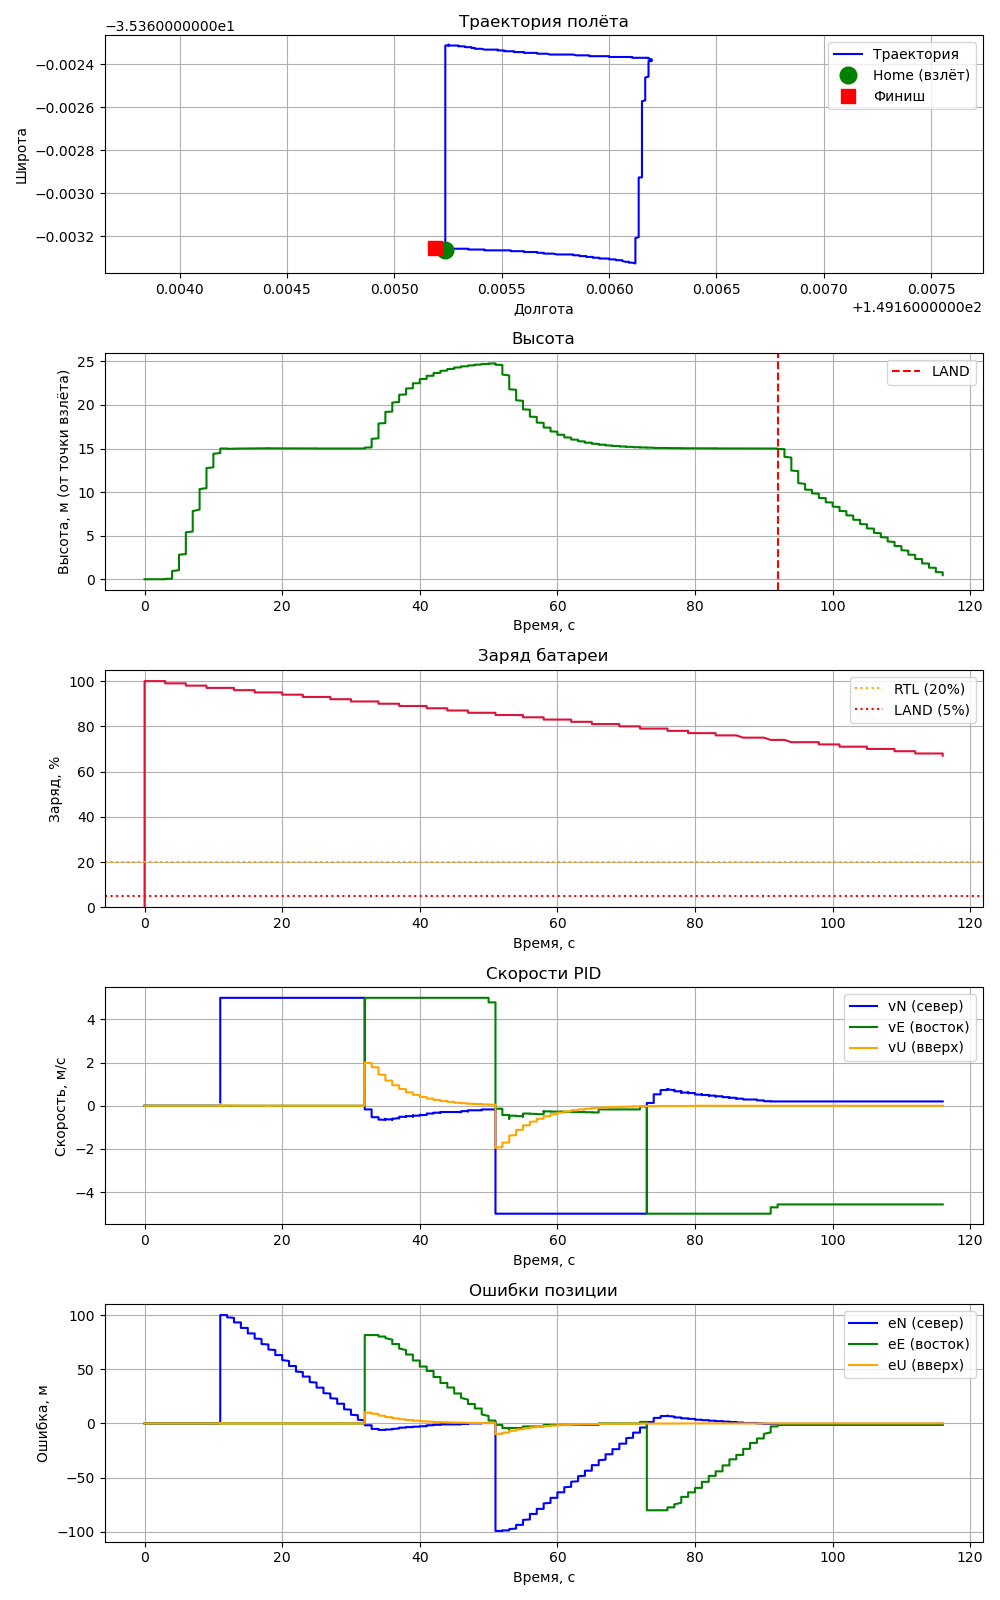
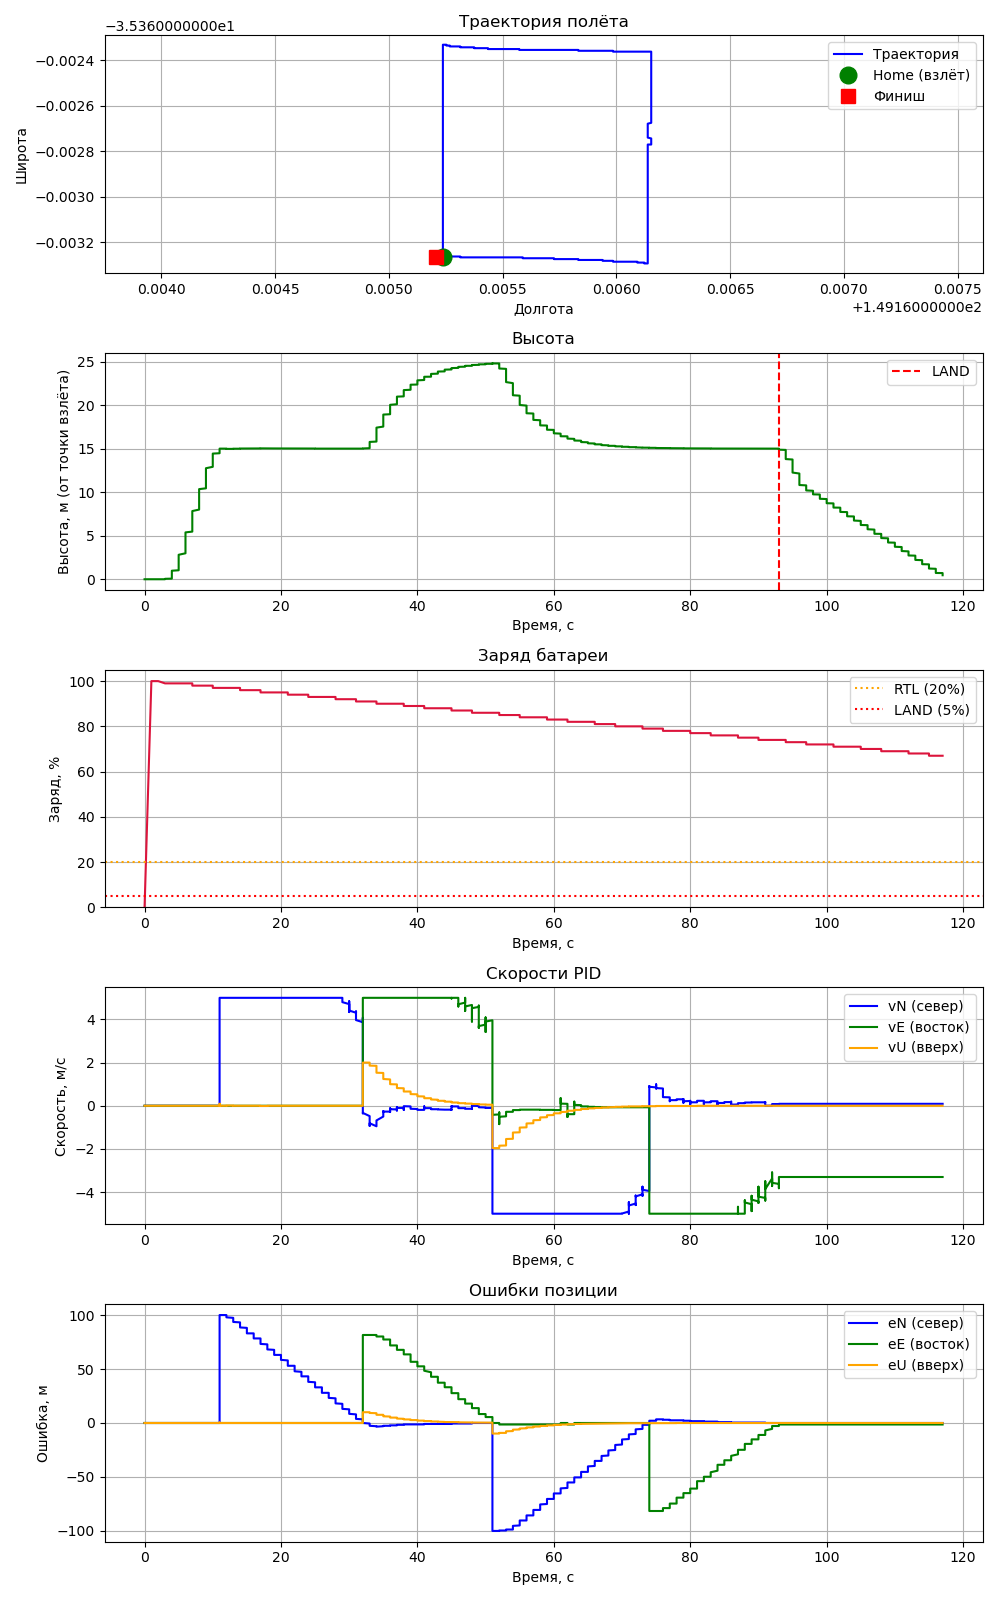
Внедрён фильтр низких частот (LPF) для D-составляющей, финальная настройка PID

diff --git a/src/drone_controller_cpp/src/pid_twist.cpp b/src/drone_controller_cpp/src/pid_twist.cpp
@@ -192,14 +192,16 @@ time_period_ = std::chrono::milliseconds(period_ms); */
     this->declare_parameter<int>("lb", 20);
 // Параметры PID для горизонтали (North и East)
     this->declare_parameter<double>("kp_h", 0.1);
-    this->declare_parameter<double>("ki_h", 0.0);
-    this->declare_parameter<double>("kd_h", 0.0);
+    this->declare_parameter<double>("ki_h", 0.005);
+    this->declare_parameter<double>("kd_h", 0.3);
     this->declare_parameter<double>("max_v_h", 5.0);
 // Параметры PID для вертикали (Up)
     this->declare_parameter<double>("kp_u", 0.2);
     this->declare_parameter<double>("ki_u", 0.0);
     this->declare_parameter<double>("kd_u", 0.0);
     this->declare_parameter<double>("max_v_u", 2.0);
+// Коэффициент фильтра для дифференциальной составляющей
+    this->declare_parameter<double>("a_d", 0.05);
 
 // Применяем параметры
     max_distance_ = this->get_parameter("md").as_int();
@@ -210,19 +212,22 @@ time_period_ = std::chrono::milliseconds(period_ms); */
         this->get_parameter("ki_h").as_double(),
         this->get_parameter("kd_h").as_double());
     pid_north_.set_max_output(this->get_parameter("max_v_h").as_double());
+    pid_north_.set_filter_alpha(this->get_parameter("a_d").as_double());
 
     pid_east_.set_gains(
         this->get_parameter("kp_h").as_double(),
         this->get_parameter("ki_h").as_double(),
         this->get_parameter("kd_h").as_double());
     pid_east_.set_max_output(this->get_parameter("max_v_h").as_double());
+    pid_east_.set_filter_alpha(this->get_parameter("a_d").as_double());
 
     pid_up_.set_gains(
         this->get_parameter("kp_u").as_double(),
         this->get_parameter("ki_u").as_double(),
         this->get_parameter("kd_u").as_double());
     pid_up_.set_max_output(this->get_parameter("max_v_u").as_double());
-    
+    pid_up_.set_filter_alpha(this->get_parameter("a_d").as_double());
+
 // 6. Создаём журнальный файл, пишем заголовок
     std::string log_dir = std::string(getenv("HOME")) + "/drone_logs";
     std::filesystem::create_directories(log_dir);

diff --git a/src/drone_controller_cpp/src/pid_controller.cpp b/src/drone_controller_cpp/src/pid_controller.cpp
@@ -6,16 +6,25 @@ PIDController::PIDController(double kp, double ki, double kd, double max_output)
 
 double PIDController::update(double error, double dt) {
   if (dt <= 0.0) return 0.0;
-  integral_ += error * dt;
+  integral_ += error * dt;    // Интеграл с anti-windup
   if (ki_ > 1e-6) {
     double integral_max = max_output_ / ki_;
     if (integral_ > integral_max) integral_ = integral_max;
     if (integral_ < -integral_max) integral_ = -integral_max;
   } else integral_ = 0.0;
+  // Производная с фильтром низких частот
   double derivative = 0.0;
-  if (first_call_) first_call_ = false;
-  else derivative = (error - prev_error_) / dt;
+  if (first_call_) {
+    first_call_ = false;
+    prev_derivative_ = 0.0; // Initialize filtered derivative
+  } else {
+    double raw_derivative = (error - prev_error_) / dt;
+    // Экспоненциальное сглаживание (EMA)
+    prev_derivative_ = alpha_ * raw_derivative + (1.0 - alpha_) * prev_derivative_;
+    derivative = prev_derivative_;
+  }
   prev_error_ = error;
+  // Выход PID
   double output = kp_ * error + ki_ * integral_ + kd_ * derivative;
   if(output > max_output_) output = max_output_;
   if(output < -max_output_) output = -max_output_;
@@ -25,6 +34,7 @@ double PIDController::update(double error, double dt) {
 void PIDController::reset() {
   integral_ = 0.0;
   prev_error_ = 0.0;
+  prev_derivative_ = 0.0;
   first_call_ = true;
 }
    
@@ -36,4 +46,11 @@ void PIDController::set_gains(double kp, double ki, double kd) {
 
 void PIDController::set_max_output(double max_output) {
   max_output_ = max_output;
+}
+
+void PIDController::set_filter_alpha(double alpha) {
+  // Ограничиваем значение от 0.0 до 1.0
+  if (alpha < 0.0) alpha = 0.0;
+  if (alpha > 1.0) alpha = 1.0;
+  alpha_ = alpha;
 }

diff --git a/src/drone_controller_cpp/src/pid_controller.hpp b/src/drone_controller_cpp/src/pid_controller.hpp
@@ -9,16 +9,18 @@ public:
     void reset();
     void set_gains(double kp, double ki, double kd);
     void set_max_output(double max_output);
+    void set_filter_alpha(double alpha);
 
 private:
-    double kp_;
-    double ki_;
-    double kd_;
-    double max_output_;
-
-    double integral_ = 0.0;
-    double prev_error_ = 0.0;
-    bool first_call_ = true;
+    double kp_;                    // пропорциональный коэффициент
+    double ki_;                    // интегральный (инерция движения)
+    double kd_;                    // дифференциальный (ускорение)
+    double max_output_;            // ограничение скорости
+    double integral_ = 0.0;        // накопление ошибки
+    double prev_error_ = 0.0;      // предыдущая ошибка (расстояние до цели)
+    bool   first_call_ = true;     // флаг первого вызова
+    double alpha_ = 0.1;           // коэффициент фильтра (от 0 до 1)
+    double prev_derivative_ = 0.0; // сглаженная производная с прошлого шага
 };
 
 #endif  // PID_CONTROLLER_HPP

diff --git a/README.md b/README.md
@@ -67,7 +67,7 @@
 | Компонент | Назначение |
 |-----------|------------|
 | Подписка | Обновляет положение дрона, заряд батареи, режим. Колбэк короткий и неблокирующий. |
-| Таймер | Запускает `control_loop()` каждые 500 мс. Управляет миссией по шагам. |
+| Таймер | Запускает `control_loop()` каждые 50 мс. Управляет миссией по шагам. |
 | Клиенты ArduPilot | `mode_switch`, `arm_motors`, `takeoff` — асинхронные вызовы с колбэками. |
 | PID-контроллеры | Три независимых контроллера (pid_north_, pid_east_, pid_up_) вычисляют скорость по ошибке позиции. |
 | Публикация скорости | TwistStamped в /ap/cmd_vel, frame_id="map" (ENU) |
@@ -130,10 +130,11 @@ ros2 run drone_controller_cpp pid_machine --ros-args -p md:=200.0 -p lb:=30.0 -p
 |----------|-----|--------------|------------|
 | `md` | int | 1000 | Предельное удаление от home, м |
 | `lb` | int | 20 | Порог срабатывания RTL, % |
-| `kp_h`, `ki_h`, `kd_h` | double | 0.1, 0.0, 0.0 | Коэффициенты PID для горизонтали (N, E) |
+| `kp_h`, `ki_h`, `kd_h` | double | 0.1, 0.005, 0.3 | Коэффициенты PID для горизонтали (N, E) |
 | `max_v_h` | double | 5.0 | Ограничение скорости по горизонтали, м/с |
 | `kp_u`, `ki_u`, `kd_u` | double | 0.2, 0.0, 0.0 | Коэффициенты PID для вертикали (U) |
 | `max_v_u` | double | 2.0 | Ограничение скорости по вертикали, м/с |
+| `a_d` | double | 0.05 | Коэффициент фильтра низких частот для D-составляющей (0..1) |
 
 ### Файлы проекта
 
@@ -222,7 +223,7 @@ ros2 run drone_controller plot_log ~/drone_logs/track.csv
 - Траектория полёта — в координатах (долгота, широта). Отмечены home и точка финиша.
 - Высота от времени — вертикальные линии в моменты перехода в режимы RTL и LAND.
 - Заряд батареи от времени — горизонтальные линии порогов 20% (RTL) и 5% (LAND).
-- Скорости PID - три составляющие (на северЮ восток и вверх) от времени.
+- Скорости PID - три составляющие (на север, восток и вверх) от времени.
 - Ошибки позиции - те же три составляющие от времени.
 
 ### Пример
@@ -240,8 +241,8 @@ ros2 run drone_controller plot_log ~/drone_logs/track.csv
 - [x] Видео полёта — записать экран с MAVProxy map
 - [x] PID-регулятор для управления полётом через скорость
 - [x] Расширить CSV колонками PID (vN, vE, vU, eN, eE, eU)
-- [ ] Добавление фильтра низких частот для дифференциального коэффициента.
-- [ ] Подбор Ki и Kd для точного дотягивания до точки
+- [x] Добавление фильтра низких частот для дифференциального коэффициента.
+- [x] Подбор Ki и Kd для точного дотягивания до точки
 - [ ] Компенсация ветра (SIM_WIND_SPD)
 
 ## [История изменений](CHANGELOG.md)

diff --git a/CHANGELOG.md b/CHANGELOG.md
@@ -4,6 +4,23 @@
 Каждая запись — завершённый этап: что сделано, какие технологии освоены, 
 с какими сложностями столкнулся. README описывает только текущее состояние.
 
+## 2026-10-27 — Фильтр низких частот для D-составляющей и настройка PID
+
+### Что сделано
+- В класс `PIDController` добавлен фильтр низких частот (экспоненциальное сглаживание, EMA) для дифференциальной составляющей. Это позволило гасить высокочастотный шум GPS.
+- Добавлен ROS-параметр `a_d` (коэффициент фильтра, от 0.0 до 1.0).
+- Проведена финальная настройка коэффициентов для горизонтального полёта. Найдена отличная комбинация: `kp_h=0.1`, `ki_h=0.005`, `kd_h=0.3`, `a_d=0.05`, `max_v_h=5.0`.
+- Обновлены значения по умолчанию в коде.
+
+### Чему научился
+- Проблема «derivative kick» и джиттера при использовании D-составляющей без фильтра.
+- Реализация фильтра низких частот через формулу: `y = alpha * x + (1 - alpha) * y_prev`.
+- Как правильный подбор `Kd` (тормоза) в связке с фильтром позволяет убрать перерегулирование при сохранении высокой скорости полёта.
+
+### Результат
+- Полёт по квадрату занимает ~120 секунд (вместо 200 в базовом П-регуляторе).
+- Траектория близка к квадрату, ошибки сходятся к нулю, графики скоростей с небольшими вибрациями.
+
 ## 2026-10-27 — Настройка PID и вынос коэффициентов в параметры
 
 ### Что сделано
